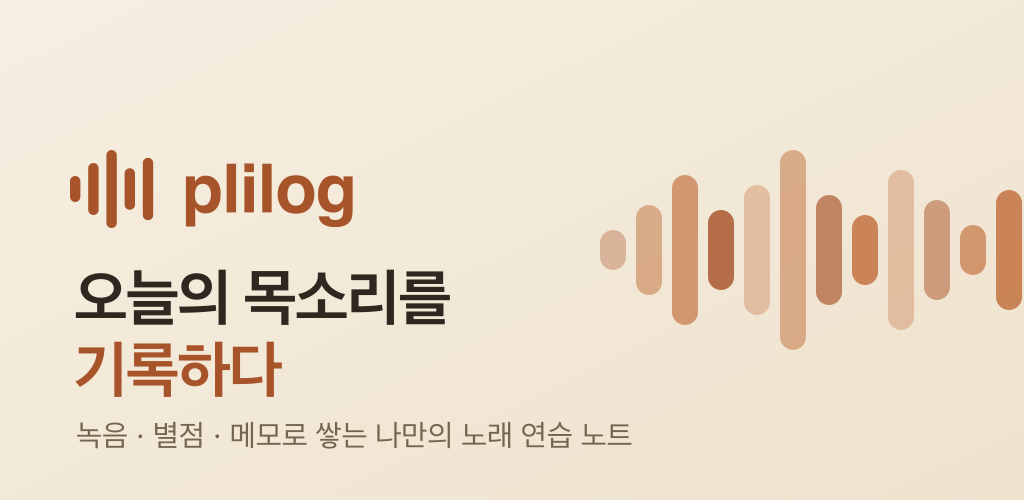
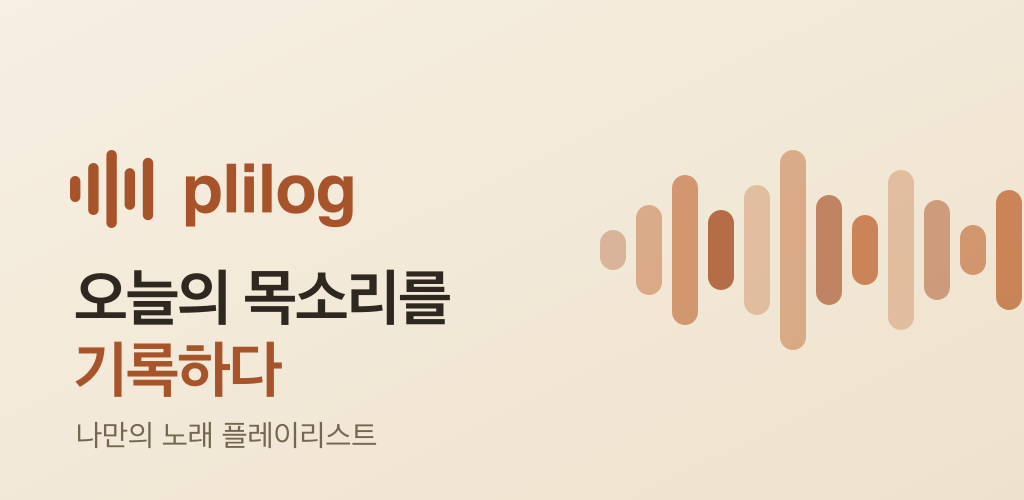
플레이스토어 제출용 수정

Changed region(s): [[0.0625, 0.84, 0.625, 0.9]]

diff --git a/scripts/generate-store-assets.js b/scripts/generate-store-assets.js
@@ -206,7 +206,7 @@ function screen2() {
     s += stars(left + 28 + 11, vy + 96, rating, 13, 8);
     s += `<text x="${left + 28}" y="${vy + 142}" font-family="${F}" font-weight="500" font-size="24" fill="${C.textMuted}">${esc(memo)}</text>`;
   });
-  return frameWrap({ headline: '녹음하고 별점·메모로 기록', sub: '버전마다 오늘의 컨디션을 남겨요', screen: top.svg + s });
+  return frameWrap({ headline: '녹음하고 별점·메모로 기록', sub: '버전마다 그때 그 느낌을 기록해요', screen: top.svg + s });
 }
 
 // ============ Screenshot 3: 플레이리스트 ============
@@ -283,6 +283,105 @@ function screen4() {
   return frameWrap({ headline: '어디서든 다시 듣기', sub: '화면을 꺼도 백그라운드 재생', screen: top.svg + s });
 }
 
+// 웨이브폼 막대 블록 (구간 하이라이트/재생 위치 지원)
+function waveBlock(left, centerY, width, n, { hl, played, baseColor, hlColor }) {
+  const bw = width / n;
+  let s = '';
+  for (let i = 0; i < n; i++) {
+    const hh = 16 + Math.abs(Math.sin(i * 0.7) + Math.sin(i * 0.33)) * 46;
+    const x = left + i * bw;
+    const frac = i / n;
+    let color = baseColor;
+    if (hl && frac >= hl[0] && frac <= hl[1]) color = hlColor;
+    if (played != null && frac <= played) color = hlColor;
+    s += `<rect x="${x.toFixed(1)}" y="${(centerY - hh / 2).toFixed(1)}" width="${(bw * 0.6).toFixed(1)}" height="${hh.toFixed(1)}" rx="3" fill="${color}"/>`;
+  }
+  return s;
+}
+
+// 상태바 점 3개
+function statusDots() {
+  const rx = SX + SW - PAD;
+  return `<rect x="${rx - 84}" y="${SY + 48}" width="22" height="22" rx="4" fill="${C.textMuted}" opacity="0.5"/><rect x="${rx - 56}" y="${SY + 48}" width="22" height="22" rx="4" fill="${C.textMuted}" opacity="0.5"/><rect x="${rx - 28}" y="${SY + 48}" width="22" height="22" rx="4" fill="${C.textMuted}" opacity="0.5"/>`;
+}
+
+// ============ Screenshot 5: 구간 편집 ============
+function screen5() {
+  const left = SX + PAD;
+  const innerW = SW - PAD * 2;
+  const cx = SX + SW / 2;
+  // 상태바 + 모달 헤더(아래 화살표 + 구간 편집)
+  let s = `<text x="${left}" y="${SY + 64}" font-family="${F}" font-weight="600" font-size="26" fill="${C.text}">9:41</text>${statusDots()}`;
+  const hy = SY + 132;
+  s += `<path d="M ${left + 2} ${hy - 8} l 17 17 l 17 -17" fill="none" stroke="${C.text}" stroke-width="4.5" stroke-linecap="round" stroke-linejoin="round"/>`;
+  s += `<text x="${cx}" y="${hy + 10}" text-anchor="middle" font-family="${F}" font-weight="600" font-size="30" fill="${C.text}">구간 편집</text>`;
+
+  let y = SY + 640;
+  s += `<text x="${cx}" y="${y}" text-anchor="middle" font-family="${F}" font-weight="500" font-size="28" fill="${C.textMuted}">0:48 선택됨</text>`;
+  y += 70;
+  // 웨이브폼 + 트림 구간
+  const wfLeft = left, wfW = innerW, wfH = 200, wfCY = y + wfH / 2;
+  const hlA = 0.22, hlB = 0.72;
+  s += `<rect x="${wfLeft}" y="${y}" width="${wfW}" height="${wfH}" rx="18" fill="${C.surface}"/>`;
+  s += `<rect x="${(wfLeft + wfW * hlA).toFixed(1)}" y="${y + 12}" width="${(wfW * (hlB - hlA)).toFixed(1)}" height="${wfH - 24}" rx="10" fill="${C.surfaceAlt}"/>`;
+  s += waveBlock(wfLeft + 18, wfCY, wfW - 36, 46, { hl: [hlA, hlB], baseColor: C.border, hlColor: C.accentStrong });
+  [hlA, hlB].forEach((fr) => {
+    const hx = wfLeft + wfW * fr;
+    s += `<rect x="${(hx - 5).toFixed(1)}" y="${y + 20}" width="10" height="${wfH - 40}" rx="5" fill="${C.accentStrong}"/><circle cx="${hx.toFixed(1)}" cy="${wfCY}" r="15" fill="${C.accentStrong}"/>`;
+  });
+  y += wfH + 24;
+  s += `<text x="${wfLeft + 4}" y="${y}" font-family="${F}" font-weight="500" font-size="24" fill="${C.textMuted}">0:12</text>`;
+  s += `<text x="${wfLeft + wfW - 4}" y="${y}" text-anchor="end" font-family="${F}" font-weight="500" font-size="24" fill="${C.textMuted}">1:00</text>`;
+  y += 80;
+  // 구간 미리듣기
+  const pbW = 320, pbX = cx - pbW / 2;
+  s += `<rect x="${pbX}" y="${y}" width="${pbW}" height="74" rx="37" fill="${C.accentStrong}"/>`;
+  s += `<polygon points="${pbX + 96},${y + 22} ${pbX + 96},${y + 52} ${pbX + 122},${y + 37}" fill="${C.onAccent}"/>`;
+  s += `<text x="${pbX + 138}" y="${y + 47}" font-family="${F}" font-weight="600" font-size="27" fill="${C.onAccent}">구간 미리듣기</text>`;
+  // 하단 저장 버튼 2개
+  const by = SY + SH - 150;
+  const bw2 = (innerW - 20) / 2;
+  s += `<rect x="${left}" y="${by}" width="${bw2}" height="92" rx="16" fill="${C.surfaceAlt}"/><text x="${left + bw2 / 2}" y="${by + 56}" text-anchor="middle" font-family="${F}" font-weight="600" font-size="26" fill="${C.danger}">원본 덮어쓰기</text>`;
+  s += `<rect x="${left + bw2 + 20}" y="${by}" width="${bw2}" height="92" rx="16" fill="${C.accentStrong}"/><text x="${left + bw2 + 20 + bw2 / 2}" y="${by + 56}" text-anchor="middle" font-family="${F}" font-weight="700" font-size="26" fill="${C.onAccent}">새 버전으로 저장</text>`;
+  return frameWrap({ headline: '녹음을 원하는 구간만 편집', sub: '마음에 드는 부분만 잘라 저장해요', screen: s });
+}
+
+// ============ Screenshot 6: 고음질 + 기본 믹싱 ============
+function screen6() {
+  const left = SX + PAD;
+  const innerW = SW - PAD * 2;
+  const cx = SX + SW / 2;
+  const top = screenTop();
+  let y = top.contentY + 70;
+  let s = '';
+  // HD 엠블럼
+  s += `<circle cx="${cx}" cy="${y + 70}" r="86" fill="${C.surfaceAlt}"/><circle cx="${cx}" cy="${y + 70}" r="86" fill="none" stroke="${C.accentStrong}" stroke-width="3"/>`;
+  s += `<text x="${cx}" y="${y + 88}" text-anchor="middle" font-family="${F}" font-weight="800" font-size="56" fill="${C.accentStrong}" letter-spacing="-1">HD</text>`;
+  // 반짝임
+  s += `${starPath(cx + 96, y + 8, 14)} fill="${C.star}"/>${starPath(cx - 104, y + 96, 9)} fill="${C.star}"/>`;
+  y += 210;
+  s += `<text x="${cx}" y="${y}" text-anchor="middle" font-family="${F}" font-weight="700" font-size="40" fill="${C.text}">고음질로 녹음돼요</text>`;
+  y += 46;
+  s += `<text x="${cx}" y="${y}" text-anchor="middle" font-family="${F}" font-weight="500" font-size="26" fill="${C.textMuted}">고음질 저장</text>`;
+  y += 64;
+  // 깨끗한 풀 웨이브폼
+  s += `<rect x="${left}" y="${y}" width="${innerW}" height="150" rx="20" fill="${C.surface}"/>`;
+  s += waveBlock(left + 30, y + 75, innerW - 60, 52, { played: 1, baseColor: C.accentStrong, hlColor: C.accentStrong });
+  y += 150 + 40;
+  // 믹싱 적용 항목
+  const rows = ['노이즈 정리', '볼륨 자동 균형', '선명한 보컬'];
+  rows.forEach((r, i) => {
+    const ry = y + i * (96 + 18);
+    const ccx = left + 54, ccy = ry + 48;
+    s += `<rect x="${left}" y="${ry}" width="${innerW}" height="96" rx="18" fill="${C.surface}"/>`;
+    s += `<circle cx="${ccx}" cy="${ccy}" r="24" fill="${C.success}"/>`;
+    s += `<path d="M ${ccx - 11} ${ccy} l 7 8 l 16 -17" fill="none" stroke="${C.onAccent}" stroke-width="4.5" stroke-linecap="round" stroke-linejoin="round"/>`;
+    s += `<text x="${left + 100}" y="${ry + 58}" font-family="${F}" font-weight="600" font-size="28" fill="${C.text}">${r}</text>`;
+    s += `<text x="${left + innerW - 28}" y="${ry + 58}" text-anchor="end" font-family="${F}" font-weight="600" font-size="24" fill="${C.success}">적용됨</text>`;
+  });
+  return frameWrap({ headline: '더 좋은 음질, 기본 믹싱까지', sub: '또렷하고 균형 잡힌 소리로 녹음돼요', screen: top.svg + s });
+}
+
 // ============ Feature graphic 1024x500 ============
 function featureGraphic() {
   const w = 1024, h = 500;
@@ -300,7 +399,7 @@ function featureGraphic() {
   s += logo(70, 150, 2.6);
   s += `<text x="74" y="320" font-family="${F}" font-weight="800" font-size="62" fill="${C.text}" letter-spacing="-2">오늘의 목소리를</text>`;
   s += `<text x="74" y="392" font-family="${F}" font-weight="800" font-size="62" fill="${C.accentStrong}" letter-spacing="-2">기록하다</text>`;
-  s += `<text x="76" y="446" font-family="${F}" font-weight="500" font-size="30" fill="${C.textMuted}">녹음 · 별점 · 메모로 쌓는 나만의 노래 연습 노트</text>`;
+  s += `<text x="76" y="446" font-family="${F}" font-weight="500" font-size="30" fill="${C.textMuted}">나만의 노래 플레이리스트</text>`;
   s += `</svg>`;
   return s;
 }
@@ -315,9 +414,11 @@ async function render(name, svg) {
   console.log('스토어 이미지 생성 중...');
   await render('feature-graphic.png', featureGraphic());
   await render('screenshot-1-songs.png', screen1());
-  await render('screenshot-2-detail.png', screen2());
-  await render('screenshot-3-playlist.png', screen3());
-  await render('screenshot-4-player.png', screen4());
+  await render('screenshot-2-quality.png', screen6());
+  await render('screenshot-3-detail.png', screen2());
+  await render('screenshot-4-playlist.png', screen3());
+  await render('screenshot-5-player.png', screen4());
+  await render('screenshot-6-trim.png', screen5());
   // 512 아이콘 (기존 아이콘 리사이즈)
   await sharp(path.join(ROOT, 'assets', 'icon.png'))
     .resize(512, 512, { fit: 'cover' })

diff --git a/store-assets/README.md b/store-assets/README.md
@@ -10,18 +10,22 @@
 | `play-icon-512.png` | 512×512 | 스토어 등록정보 → 앱 아이콘 |
 | `feature-graphic.png` | 1024×500 | 스토어 등록정보 → 추천 그래픽(Feature graphic) |
 | `screenshot-1-songs.png` | 1080×2340 | 스토어 등록정보 → 휴대전화 스크린샷 |
-| `screenshot-2-detail.png` | 1080×2340 | 〃 |
-| `screenshot-3-playlist.png` | 1080×2340 | 〃 |
-| `screenshot-4-player.png` | 1080×2340 | 〃 |
+| `screenshot-2-quality.png` | 1080×2340 | 〃 |
+| `screenshot-3-detail.png` | 1080×2340 | 〃 |
+| `screenshot-4-playlist.png` | 1080×2340 | 〃 |
+| `screenshot-5-player.png` | 1080×2340 | 〃 |
+| `screenshot-6-trim.png` | 1080×2340 | 〃 |
 
-> 휴대전화 스크린샷은 **최소 2장, 최대 8장**. 위 4장 순서대로 올리면 기능 흐름이 자연스럽게 소개됩니다.
+> 휴대전화 스크린샷은 **최소 2장, 최대 8장**. 위 6장 순서대로 올리면 기능 흐름이 자연스럽게 소개됩니다.
 
-## 스크린샷이 담은 기능
+## 스크린샷이 담은 기능 (표시 순서)
 
 1. **곡 목록** — 검색·앨범아트로 부르고 싶은 곡 모으기
-2. **곡 상세** — 녹음 버튼 + 버전별 별점/메모/대표 지정
-3. **플레이리스트** — 셋리스트 정리·순서 변경
-4. **재생 화면** — 웨이브폼·백그라운드 재생
+2. **고음질·기본 믹싱** — 또렷하고 균형 잡힌 소리로 녹음
+3. **곡 상세** — 녹음 버튼 + 버전별 별점/메모/대표 지정
+4. **플레이리스트** — 셋리스트 정리·순서 변경
+5. **재생 화면** — 웨이브폼·백그라운드 재생
+6. **구간 편집** — 녹음본에서 원하는 구간만 잘라 저장
 
 ## 다시 만들기 / 수정
 